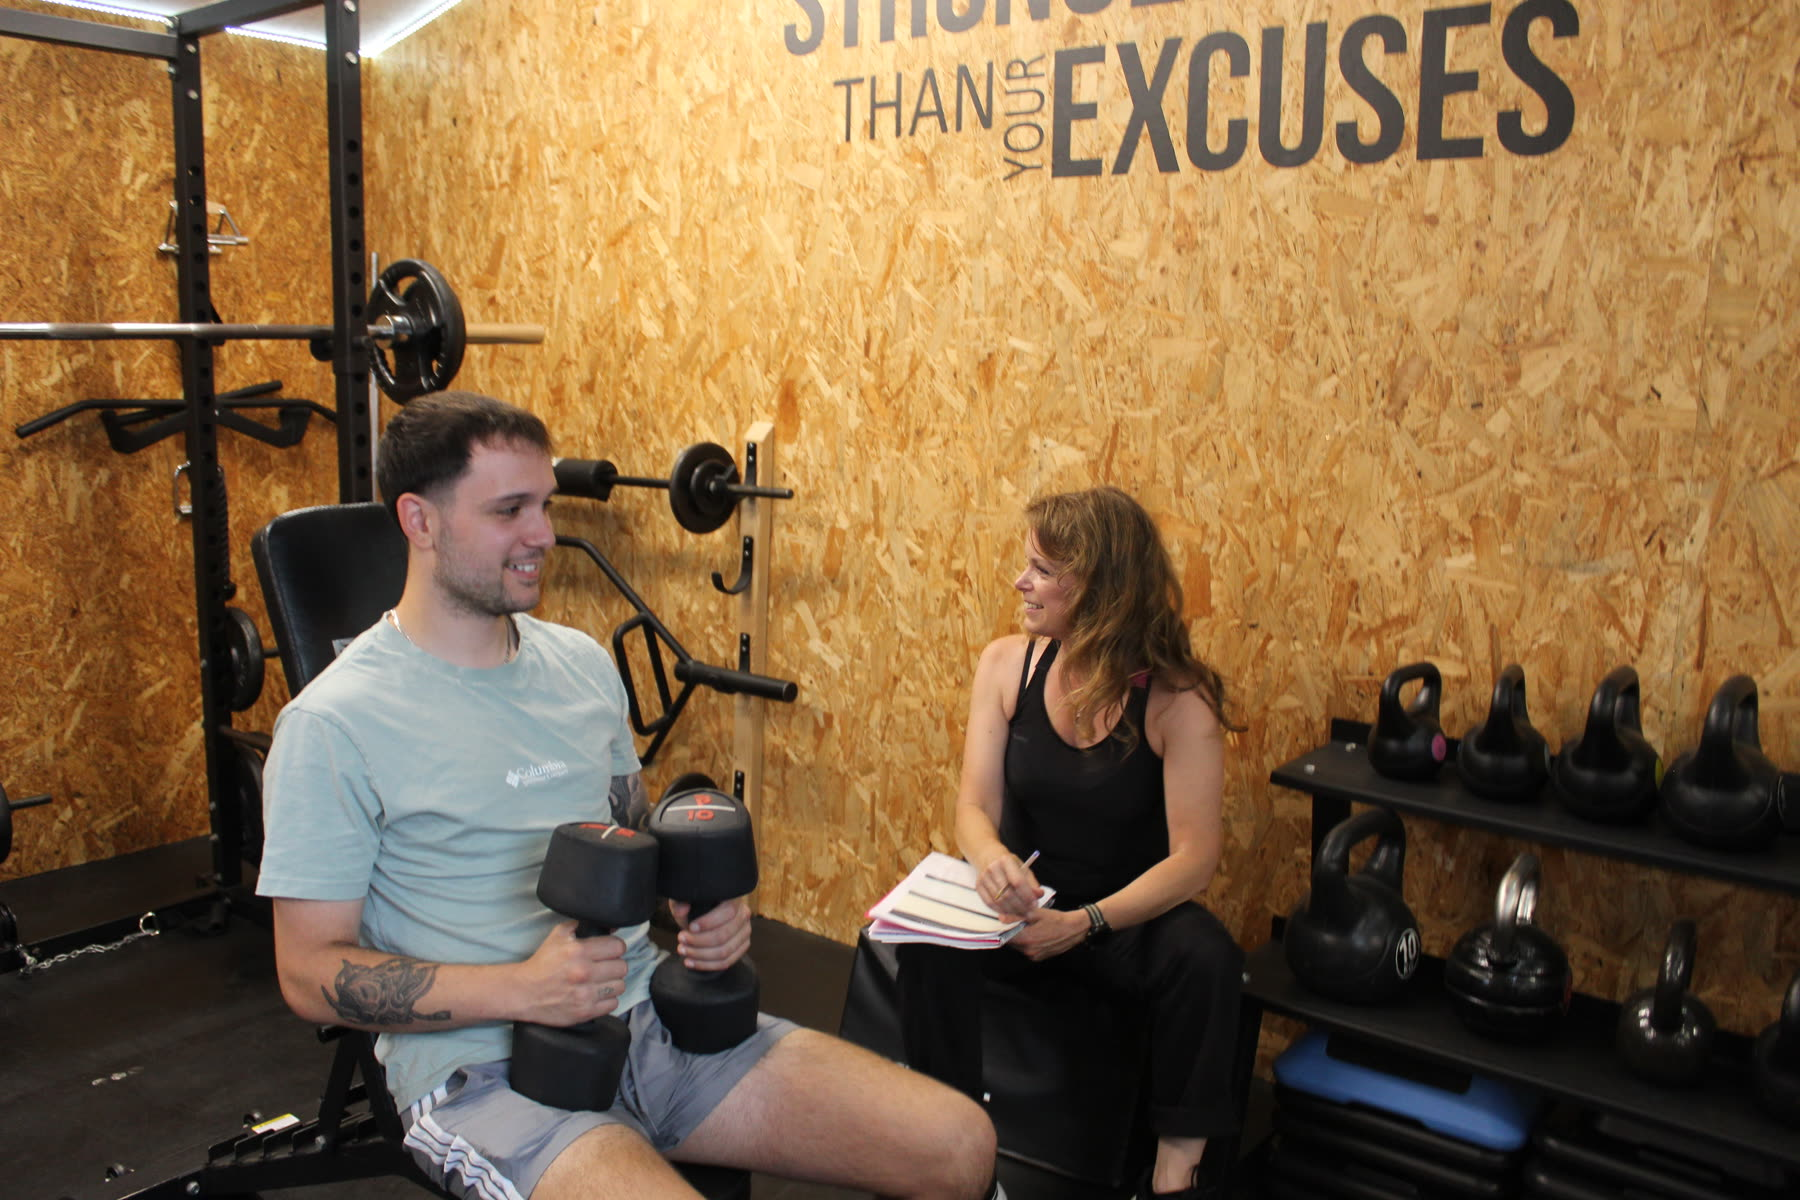
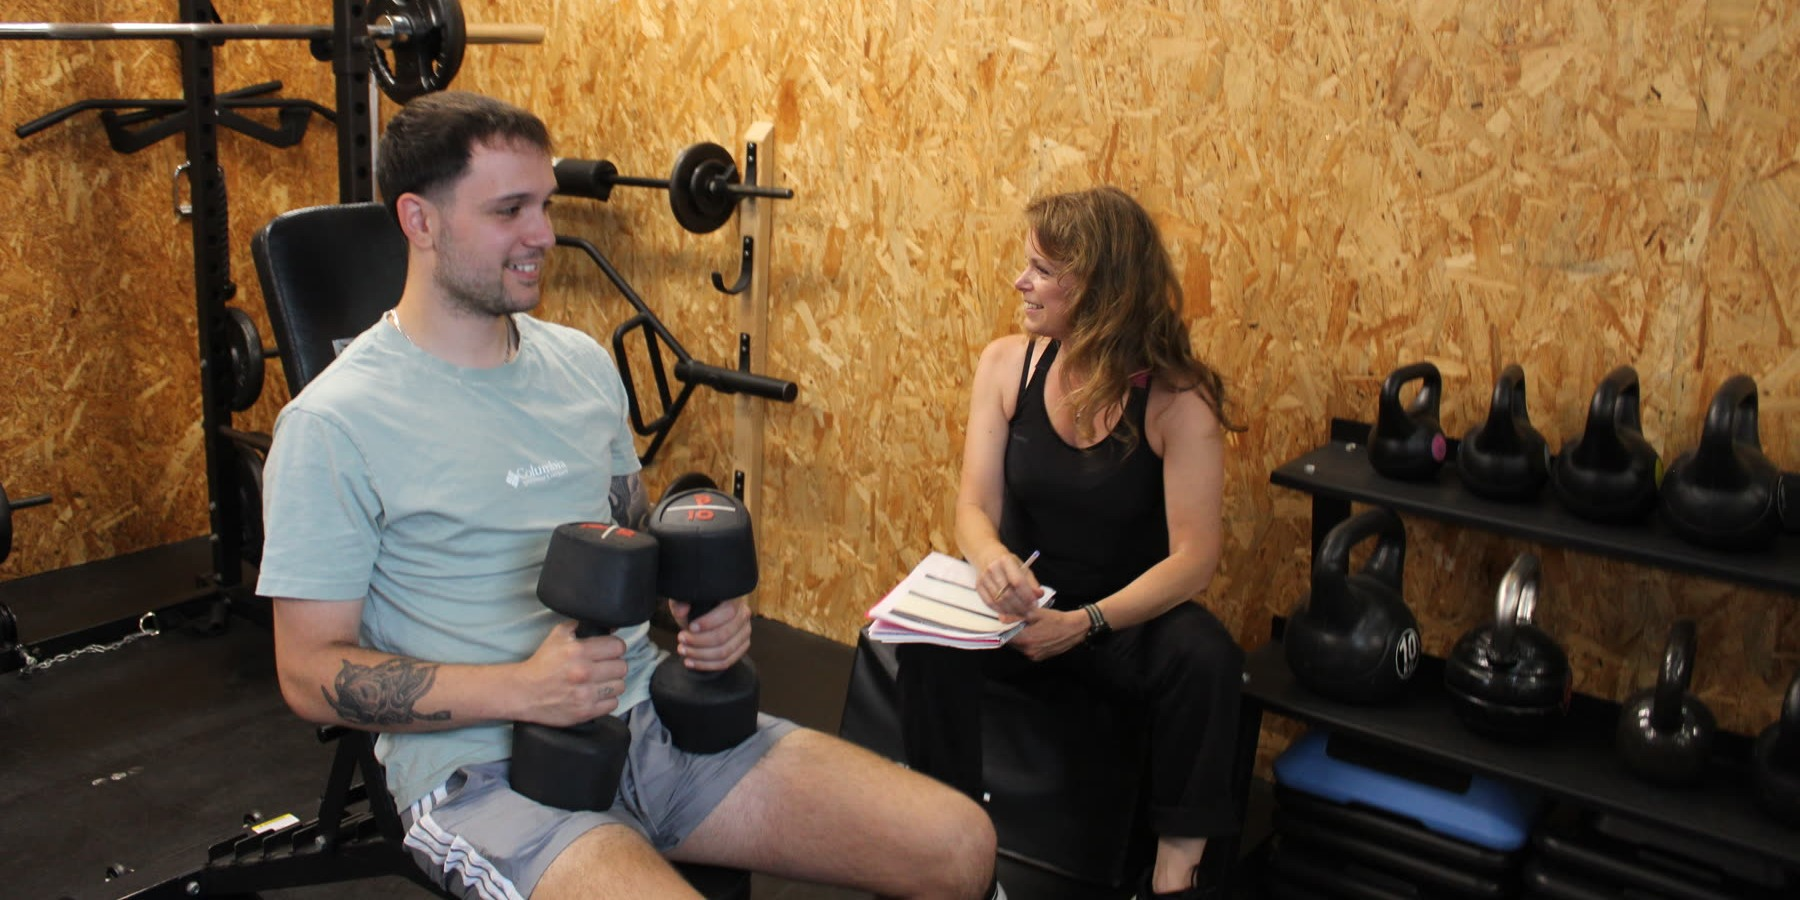
Reframe Personal Training consultation photo to show both people
Crops the empty wall space above their heads out of the source image
and widens the container's aspect ratio so the client isn't cut off
on the left edge.

diff --git a/app/personal-training/PersonalTrainingClient.tsx b/app/personal-training/PersonalTrainingClient.tsx
@@ -123,8 +123,8 @@ export default function PersonalTrainingClient({ content = {} }: { content?: Rec
               </div>
             </Reveal>
           </div>
-          <Reveal y={40} className="ds-split-img">
-            <Image src="/images/consultation-programme-notes.jpg" alt="Esther going through the session plan with a client before they start" fill sizes="(max-width: 1000px) 100vw, 50vw" style={{ objectFit: "cover", objectPosition: "58% 50%" }} />
+          <Reveal y={40} className="ds-split-img" style={{ aspectRatio: "3/2" }}>
+            <Image src="/images/consultation-programme-notes.jpg" alt="Esther going through the session plan with a client before they start" fill sizes="(max-width: 1000px) 100vw, 50vw" style={{ objectFit: "cover", objectPosition: "42% 50%" }} />
           </Reveal>
         </div>
       </Section>
